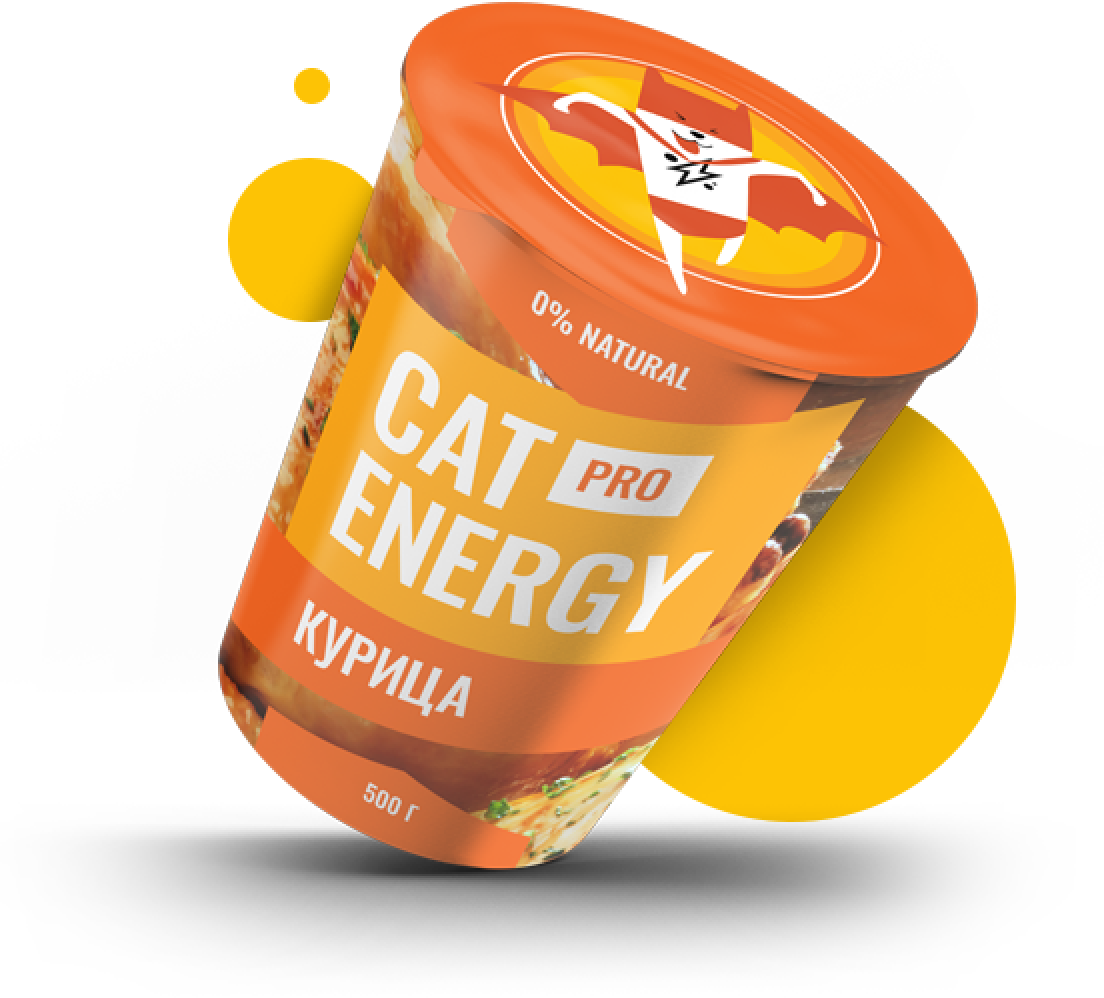
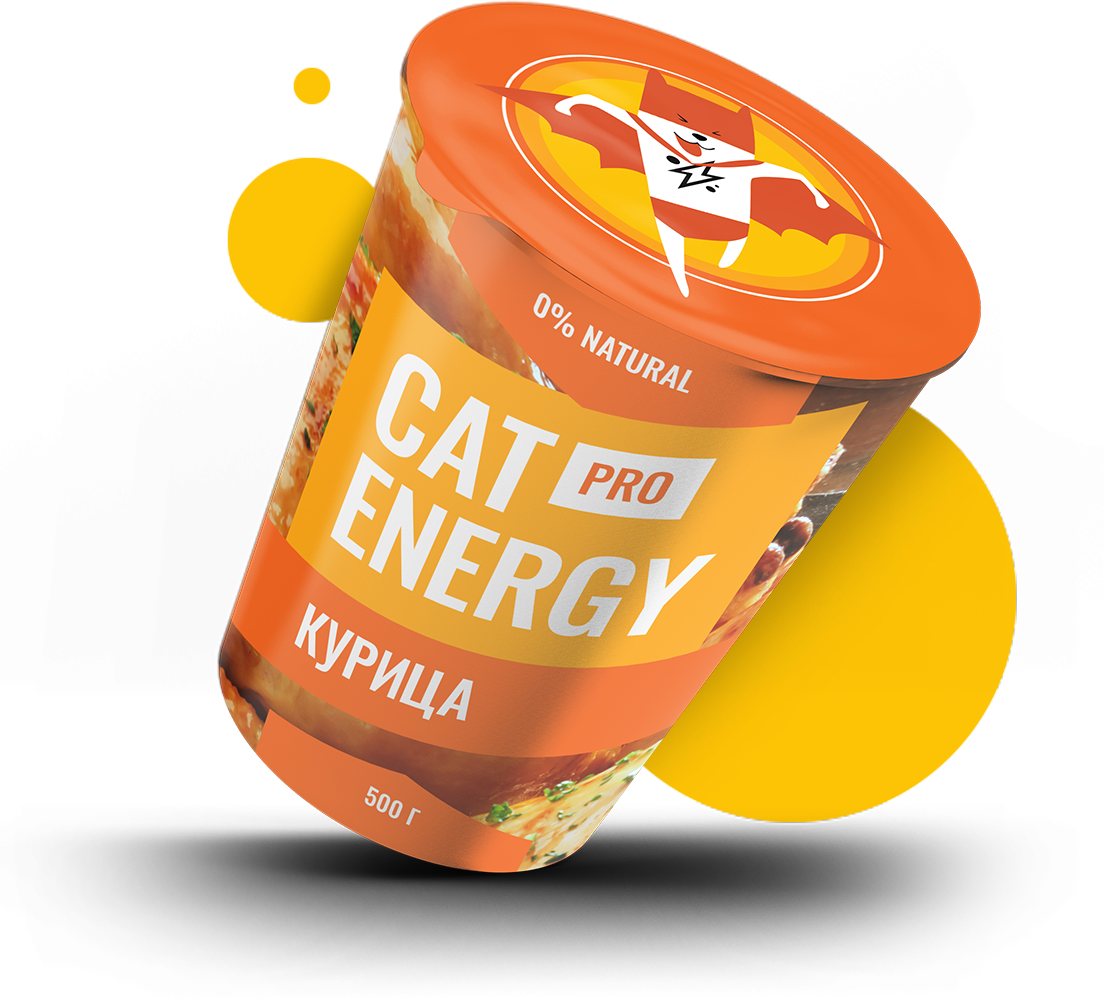
'Ретинизировал' всю графику и добавил некоторые декоративные элементы

diff --git a/source/sass/blocks/additional-products.scss b/source/sass/blocks/additional-products.scss
@@ -13,19 +13,51 @@
 }
 
 .additional-products__title {
+  display: flex;
   margin: 25px 0 35px 20px;
   font-weight: normal;
   font-size: 24px;
   line-height: 24px;
 
+  &::after {
+    content: "";
+    flex-grow: 1;
+    flex-shrink: 0;
+    width: 40px;
+    height: 2px;
+    margin: 14px 0 0 22px;
+    background-color: $green;
+  }
+
   @media (min-width: $tablet-width) {
-    margin: 53px 0 80px 68px;
+    margin: 53px 0 80px 0;
 
     @include medium-title;
+
+    &::after {
+      margin: 22px 0 0 35px;
+    }
+
+    &::before {
+      content: "";
+      width: 31px;
+      height: 2px;
+      margin: 22px 37px 0 0;
+      background-color: $green;
+    }
   }
 
   @media (min-width: $desktop-width) {
     margin-bottom: 66px;
+
+    &::after {
+      margin: 22px 8px 0 36px;
+    }
+
+    &::before {
+      width: 70px;
+      margin: 22px 40px 0 -50px;
+    }
   }
 }
 
@@ -144,6 +176,11 @@
   background-position: 0 0;
   background-repeat: no-repeat;
 
+  @media (min-resolution: 2dppx) {
+    background-image: url("../../img/gift-photo-mobile@2x.jpg");
+    background-size: 280px, auto;
+  }
+
   @media (min-width: $tablet-width) {
     justify-content: flex-end;
     width: 708px;
@@ -152,6 +189,11 @@
     background-image: url("../../img/gift-photo-tablet@1x.jpg");
     background-position: 0 0;
     background-repeat: no-repeat;
+
+    @media (min-resolution: 2dppx) {
+      background-image: url("../../img/gift-photo-tablet@2x.jpg");
+      background-size: 708px, auto;
+    }
   }
 
   @media (min-width: $desktop-width) {
@@ -161,6 +203,11 @@
     background-image: url("../../img/gift-photo-desktop@1x.jpg");
     background-position: 0 0;
     background-repeat: no-repeat;
+
+    @media (min-resolution: 2dppx) {
+      background-image: url("../../img/gift-photo-desktop@2x.jpg");
+      background-size: 245px, auto;
+    }
   }
 }
 

diff --git a/source/sass/blocks/additionally.scss b/source/sass/blocks/additionally.scss
@@ -13,15 +13,50 @@
   }
 }
 
-.additionally__products-caption {
+.additionally__products-title {
+  display: flex;
   margin: 0 0 16px -15px;
 
   @include description-inputs;
 
+  &::after {
+    content: "";
+    flex-grow: 1;
+    flex-shrink: 0;
+    width: 136px;
+    height: 2px;
+    margin: 15px -2px 0 24px;
+    background-color: $green;
+  }
+
   @media (min-width: $tablet-width) {
+    width: 100%;
     margin: 0 0 37px -15px;
 
     @include medium-title;
+
+    &::after {
+      margin: 22px -71px 0 42px;
+    }
+
+    &::before {
+      content: "";
+      width: 30px;
+      height: 2px;
+      margin: 22px 39px 0 -68px;
+      background-color: $green;
+    }
+  }
+
+  @media (min-width: $desktop-width) {
+    &::after {
+      margin: 22px -24px 0 41px;
+    }
+
+    &::before {
+      width: 70px;
+      margin: 22px 40px 0 -110px;
+    }
   }
 }
 

diff --git a/source/sass/blocks/contacts.scss b/source/sass/blocks/contacts.scss
@@ -9,16 +9,48 @@
 }
 
 .contacts__title {
-  width: 185px;
+  display: flex;
   margin: 26px 0 32px -22px;
 
   @include description-inputs;
 
+  &::after {
+    content: "";
+    flex-grow: 1;
+    flex-shrink: 0;
+    width: 99px;
+    height: 2px;
+    margin: 16px -2px 0 0;
+    background-color: $green;
+  }
+
   @media (min-width: $tablet-width) {
-    width: auto;
     margin: 75px 0 76px -23px;
 
     @include medium-title;
+
+    &::after {
+      margin: 22px -49px 0 43px;
+    }
+
+    &::before {
+      content: "";
+      width: 30px;
+      height: 2px;
+      margin: 22px 39px 0 -68px;
+      background-color: $green;
+    }
+  }
+
+  @media (min-width: $desktop-width) {
+    &::after {
+      margin: 22px -2px 0 41px;
+    }
+
+    &::before {
+      width: 70px;
+      margin: 22px 40px 0 -110px;
+    }
   }
 }
 

diff --git a/source/sass/blocks/comment.scss b/source/sass/blocks/comment.scss
@@ -1,14 +1,48 @@
 //Comment
 
 .comment__title {
+  display: flex;
   margin: 27px 0 38px -2px;
 
   @include description-inputs;
+
+  &::after {
+    content: "";
+    flex-grow: 1;
+    flex-shrink: 0;
+    width: 99px;
+    height: 2px;
+    margin: 15px -2px 0 22px;
+    background-color: $green;
+  }
 
   @media (min-width: $tablet-width) {
     margin: 65px 0 76px -4px;
 
     @include medium-title;
+
+    &::after {
+      margin: 22px -48px 0 41px;
+    }
+
+    &::before {
+      content: "";
+      width: 30px;
+      height: 2px;
+      margin: 22px 39px 0 -68px;
+      background-color: $green;
+    }
+  }
+
+  @media (min-width: $desktop-width) {
+    &::after {
+      margin: 22px -2px 0 42px;
+    }
+
+    &::before {
+      width: 70px;
+      margin: 22px 40px 0 -110px;
+    }
   }
 }
 

diff --git a/source/sass/blocks/promo.scss b/source/sass/blocks/promo.scss
@@ -13,7 +13,7 @@
       url("../../img/index-can-mobile@2x.png"),
       url("../../img/index-background-mobile@2x.jpg"),
       linear-gradient(to bottom, $green 63%, $white 37%);
-    background-size: contain;
+    background-size: 280px auto, 320px auto, contain;
   }
 
   @media (min-width: $tablet-width) {
@@ -25,7 +25,7 @@
 
     @media (min-resolution: 2dppx) {
       background-image: url("../../img/index-can-tablet@2x.jpg");
-      background-size: contain;
+      background-size: 709px auto;
     }
   }
 
@@ -44,7 +44,7 @@
         url("../../img/index-can-desktop@2x.png"),
         url("../../img/index-background-desktop@2x.jpg"),
         linear-gradient(to left, $green 50%, $white 50%);
-      background-size: contain;
+      background-size: 552px auto, 720px auto, contain;
     }
   }
 }

diff --git a/source/catalog.html b/source/catalog.html
@@ -157,7 +157,7 @@
             <a class="catalog__link" href="#">
               <h3 class="catalog__link-title">Cat Energy slim 500 г</h3>
               <picture>
-                <source media="(min-width: 1440px)" srcset="../img/rice-small-desktop@1x.png 1x, ../img/rice-smallg-desktop@2x.png 2x">
+                <source media="(min-width: 1440px)" srcset="../img/rice-small-desktop@1x.png 1x, ../img/rice-small-desktop@2x.png 2x">
                 <source media="(min-width: 768px)" srcset="../img/rice-small-tablet@1x.png 1x, ../img/rice-small-tablet@2x.png 2x">
                 <img class="catalog__link-image" src="../img/rice-small-mobile@1x.jpg" srcset="../img/rice-small-mobile@2x.jpg 2x" alt="Cat Energy slim 500 г со вкусом риса">
               </picture>

diff --git a/source/sass/blocks/example.scss b/source/sass/blocks/example.scss
@@ -10,7 +10,7 @@
 
   @media (min-resolution: 2dppx) {
     background-image: url("../../img/before-mobile@2x.png");
-    background-size: contain;
+    background-size: 311px auto;
   }
 
   @media (min-width: $tablet-width) {
@@ -38,7 +38,7 @@
 
     @media (min-resolution: 2dppx) {
       background-image: url("../../img/before-tablet@2x.png");
-      background-size: contain;
+      background-size: 690px auto;
     }
   }
 
@@ -51,7 +51,7 @@
 
     @media (min-resolution: 2dppx) {
       background-image: url("../../img/before-desktop@2x.png");
-      background-size: contain;
+      background-size: 690px auto;
     }
   }
 }

diff --git a/source/form.html b/source/form.html
@@ -103,7 +103,7 @@
         </section>
         <section class="additionally">
           <fieldset class="additionally__products">
-            <legend class="additionally__products-caption">Дополнительно</legend>
+            <legend class="additionally__products-title">Дополнительно</legend>
             <ul class="additionally__products-list">
               <li class="additionally__products-item">
                 <input class="visually-hidden additionally__products-checkbox additionally__products-checkbox-filter" type="checkbox" name="sweetener" checked id="sweetener">

diff --git a/source/sass/blocks/programs-choose.scss b/source/sass/blocks/programs-choose.scss
@@ -69,7 +69,7 @@
 //Programs-choose__radio-wrapper
 
 .programs-choose__radio-wrapper {
-  width: 300px;
+  width: 305px;
   margin: 23px 0 0 -20px;
   padding: 20px 0 24px 14px;
   border: 1px solid $dark-grey;
